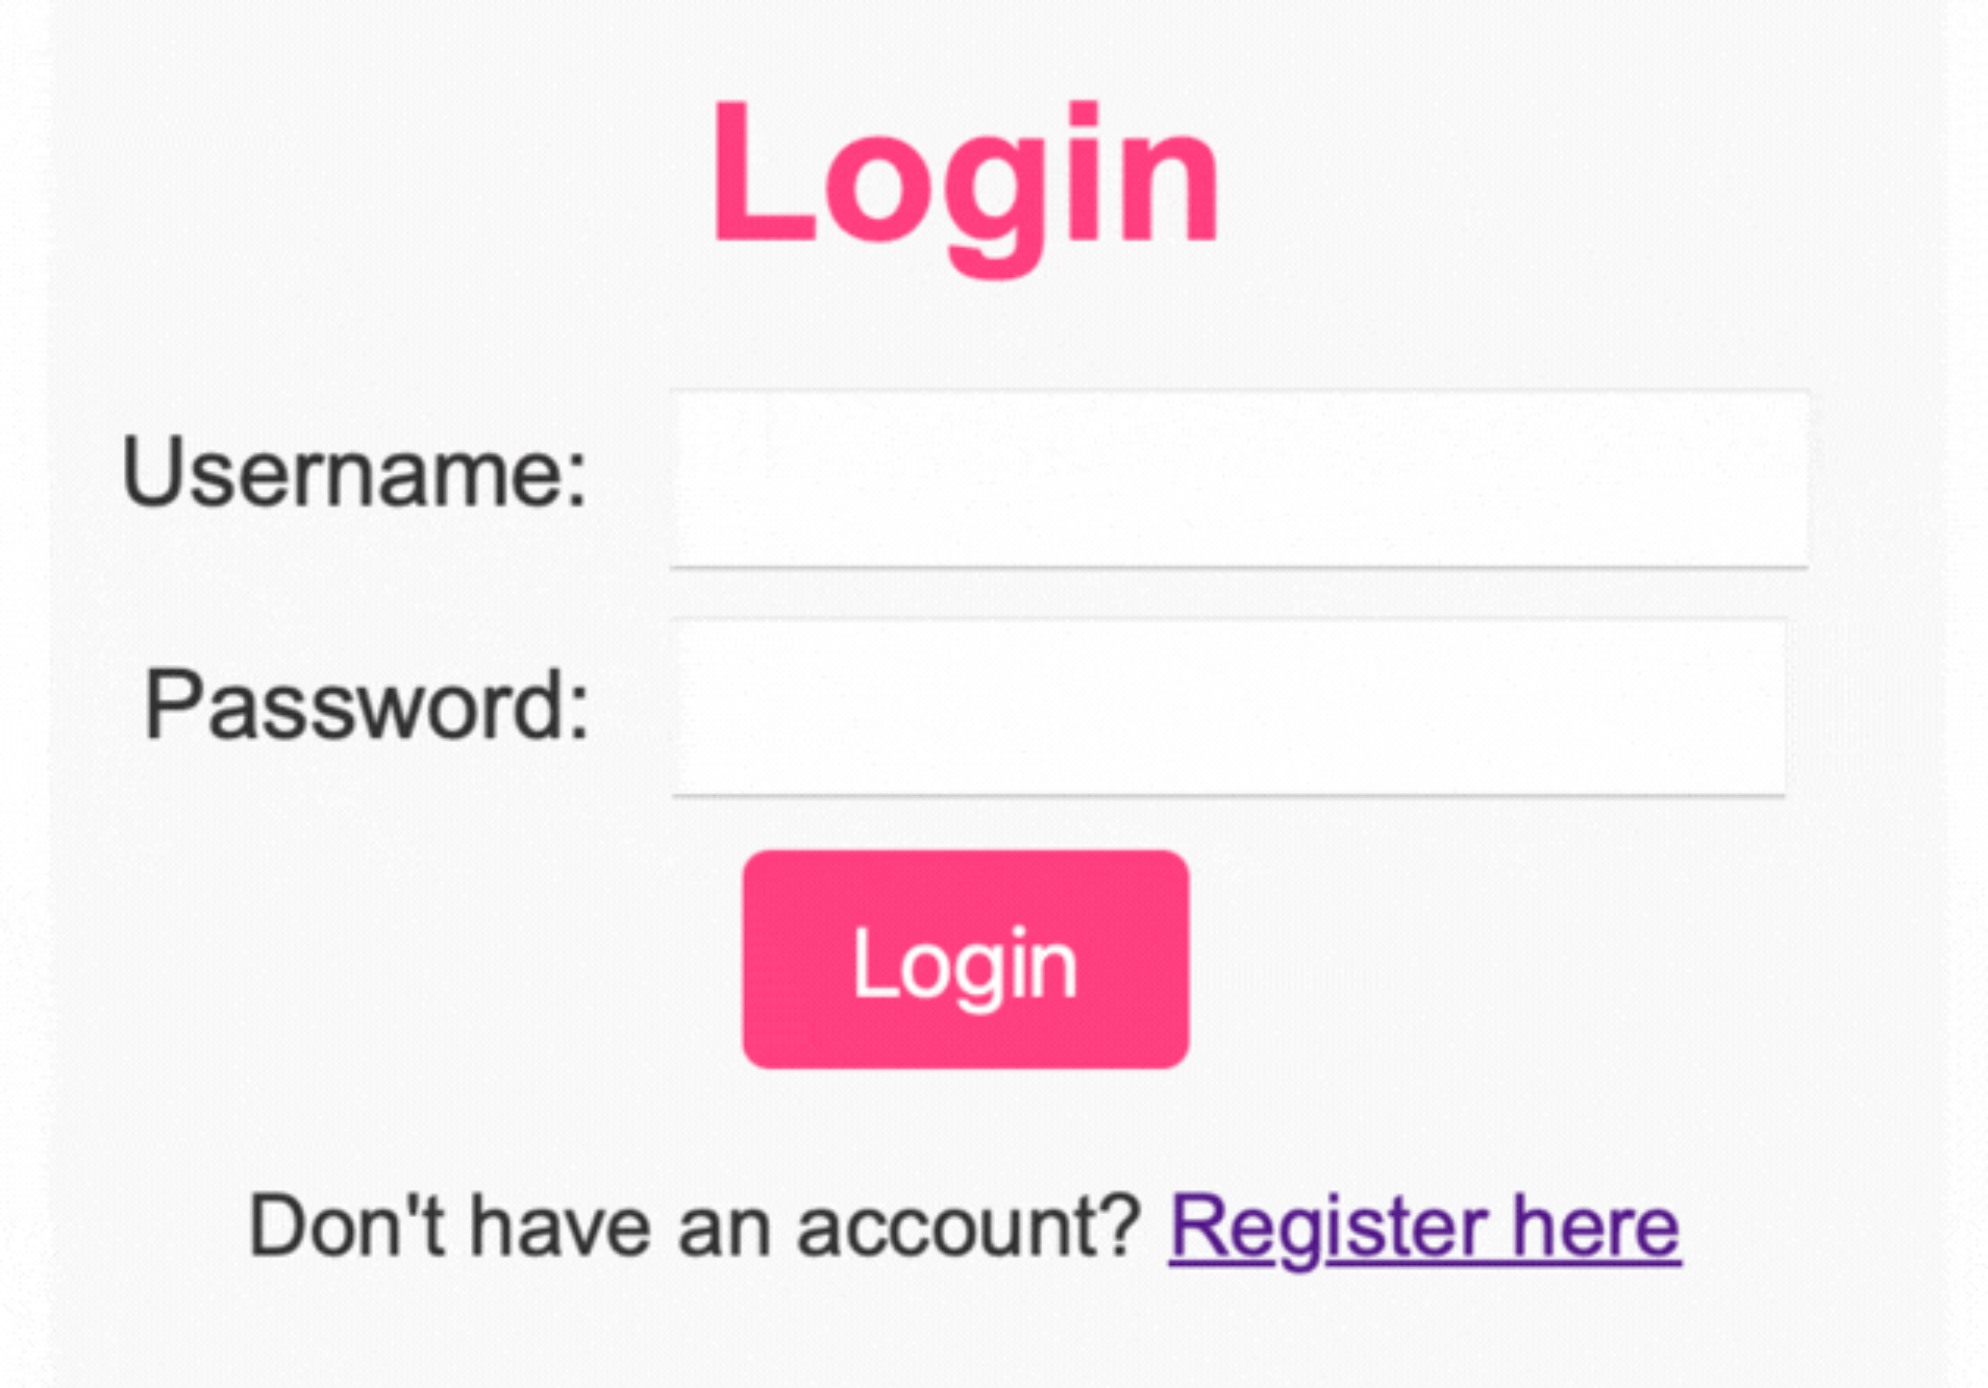
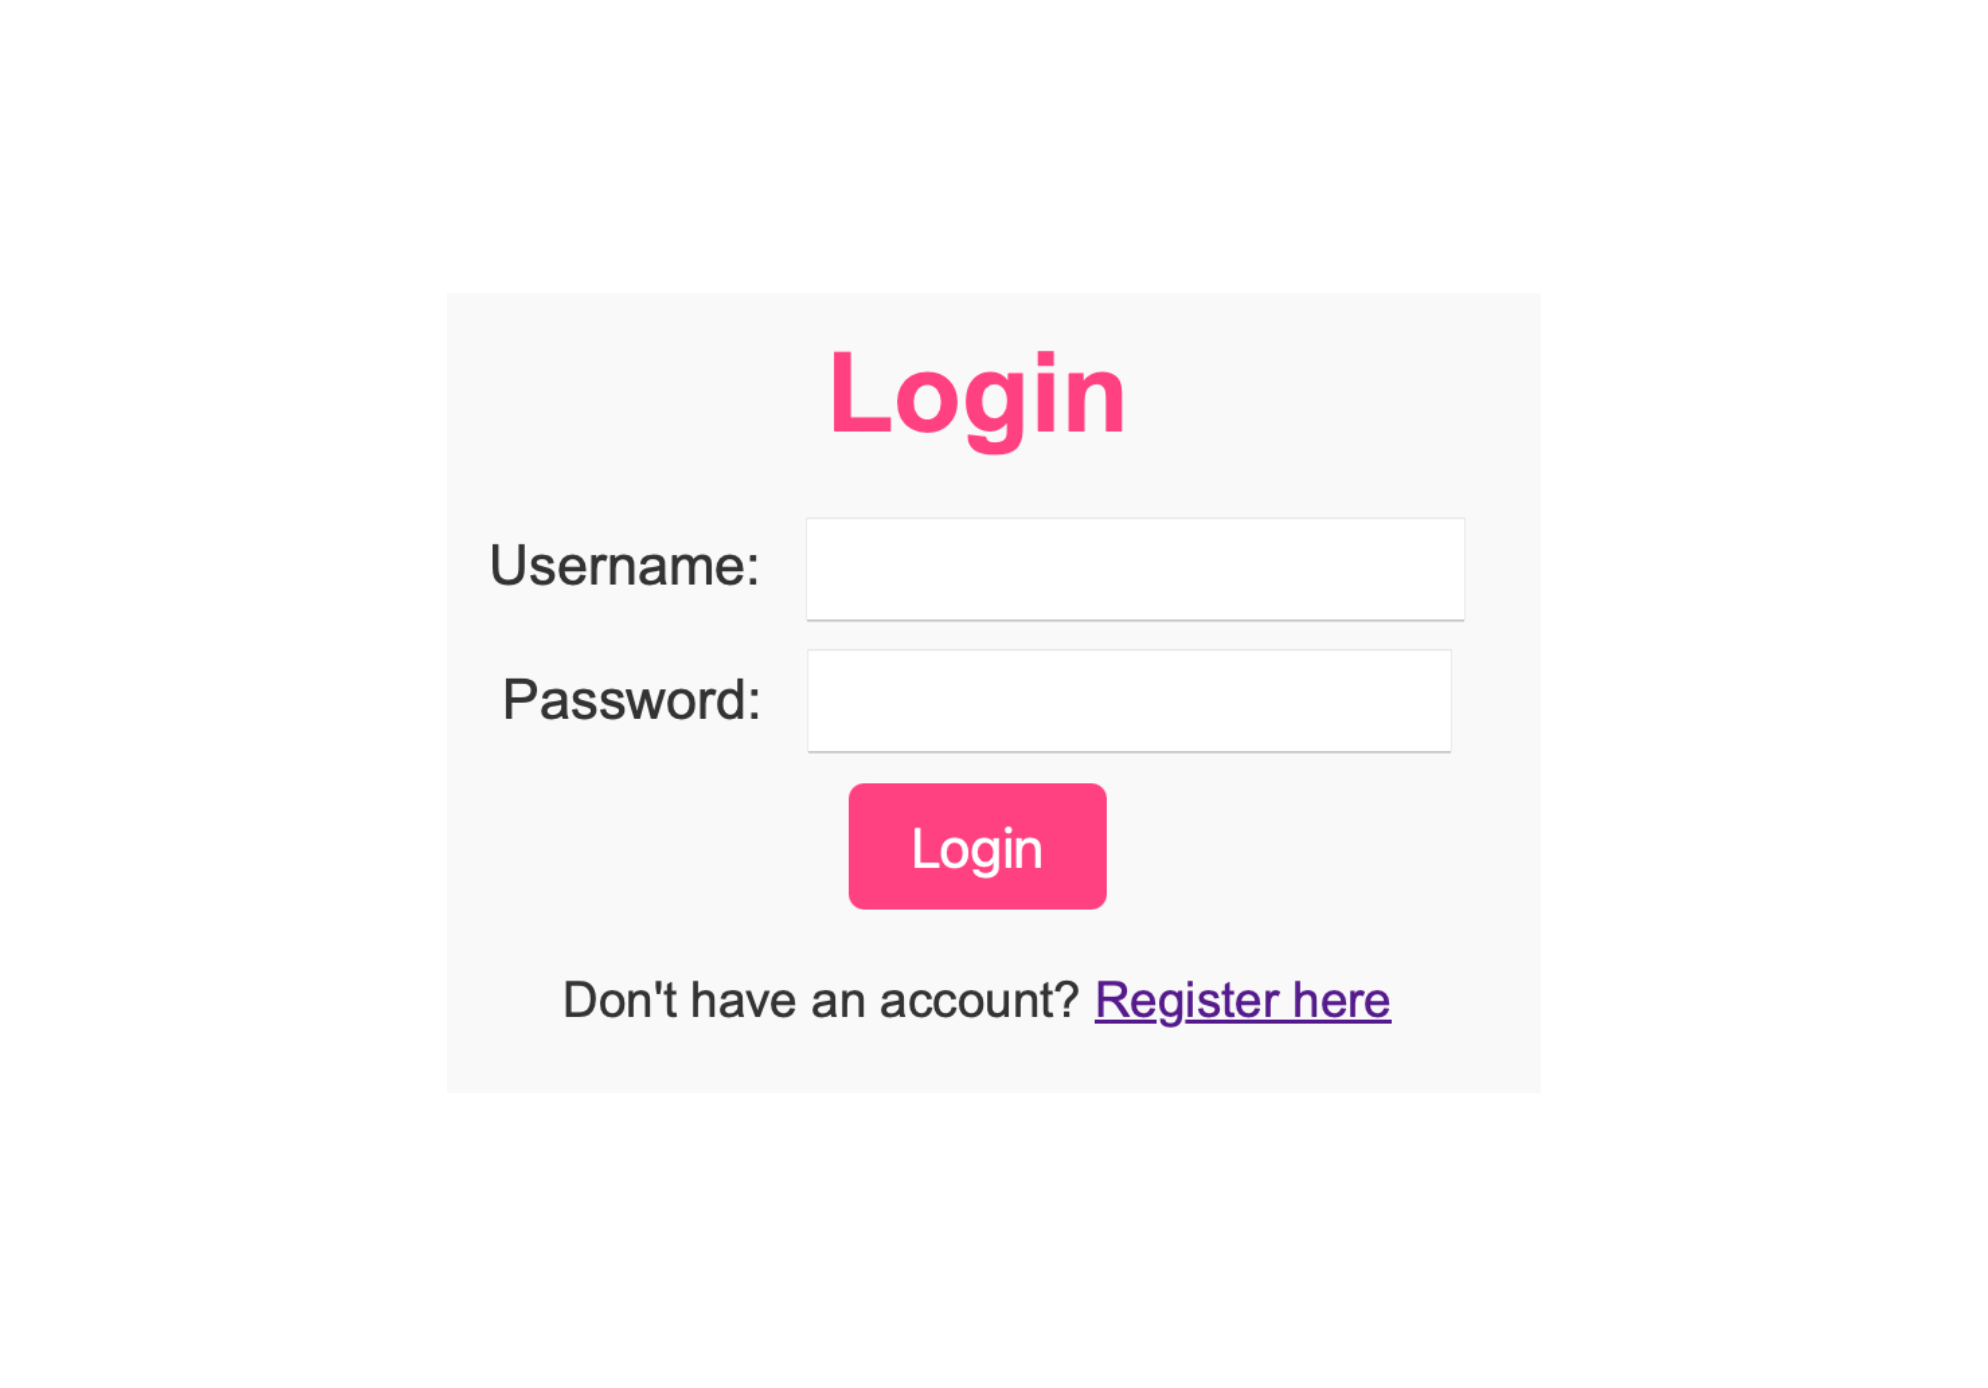
added pictures

diff --git a/README.md b/README.md
@@ -90,17 +90,8 @@ The app publishes events to the `tictactoe.events` topic:
 
 ## Screenshots
 
-<p align="center">
-  <br/><em>Login page</em>
-  <img src="https://raw.githubusercontent.com/sylwiabarteczko/TicTacToe/auto-ai/web/Login.png" width="50%" />
-</p>
-
-<p align="center">
-  <br/><em>Registration page</em>
-  <img src="https://raw.githubusercontent.com/sylwiabarteczko/TicTacToe/auto-ai/web/Register.png" width="50%" />
-</p>
-
-<p align="center">
-  <br/><em>Game board</em>
-  <img src="https://raw.githubusercontent.com/sylwiabarteczko/TicTacToe/auto-ai/web/Game.png" width="50%" />
-</p>
+| | |
+|:---:|---|
+| **Registration page** | <img src="https://raw.githubusercontent.com/sylwiabarteczko/TicTacToe/auto-ai/web/Register.png" width="400"/> |
+| **Login page** | <img src="https://raw.githubusercontent.com/sylwiabarteczko/TicTacToe/auto-ai/web/Login.png" width="400"/> |
+| **Game board** | <img src="https://raw.githubusercontent.com/sylwiabarteczko/TicTacToe/auto-ai/web/Game.png" width="400"/> |
